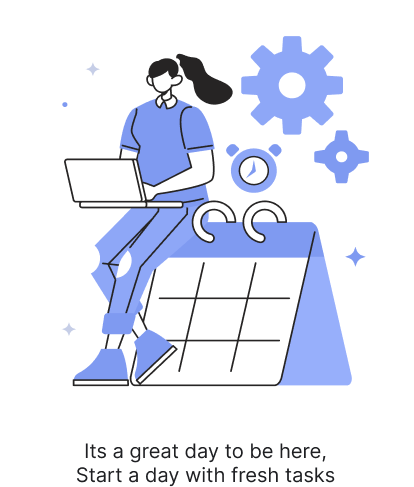
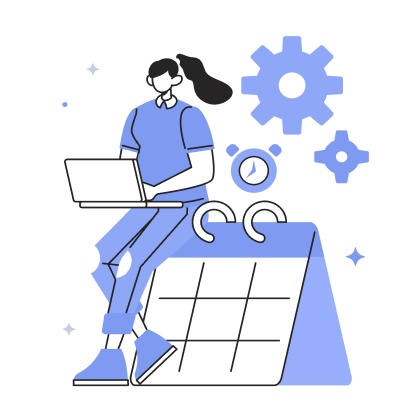
second

diff --git a/src/App.tsx b/src/App.tsx
@@ -1,10 +1,45 @@
-import React, { useState } from "react";
+import React, { useReducer, useState } from "react";
+import { v4 as uuidv4 } from "uuid";
 import { Main } from "./Components/Main";
 import "./Styles/Styles.css";
-import { dataContext } from "./Components/dataContext";
-import { IState } from './Components/interface'
+
+import { dataContext, ACTIONTYPES } from "./Components/dataContext";
+import { IState } from "./Components/interface";
+import { IReducer } from "./Components/interface";
+
+const initialState = [
+  {
+    todo: "value",
+    id: "9b1deb4d-3b7d-4bad-9bdd-2b0d7b3dcb6d",
+    isCompleted: false,
+    isOpen: false,
+    isDelete: false,
+    isTrying: false,
+  },
+];
+
+const reducer = (state: IReducer["redState"], action: ACTIONTYPES) => {
+  switch (action.type) {
+    case "Submit":
+      return [...state, newTodo(action.payload)];
+    default:
+      return state;
+  }
+};
+
+const newTodo = (value: string) => {
+  return {
+    id: uuidv4(),
+    todo: value,
+    isCompleted: false,
+    isOpen: false,
+    isDelete: false,
+    isTrying: false,
+  };
+};
+
 function App() {
-  const [GlobalState, setGlobalState] = useState<IState['states']>({
+  const [GlobalState, setGlobalState] = useState<IState["states"]>({
     startTasks: false,
     addTask: false,
     theme: "light",
@@ -12,9 +47,13 @@ function App() {
     filterTask: false,
   });
 
+  const [state, dispatch] = useReducer(reducer, initialState);
+
   return (
     <>
-      <dataContext.Provider value={{ GlobalState, setGlobalState }}>
+      <dataContext.Provider
+        value={{ GlobalState, setGlobalState, state, dispatch }}
+      >
         <Main />
       </dataContext.Provider>
     </>

diff --git a/src/Components/LowerTab.tsx b/src/Components/LowerTab.tsx
@@ -1,4 +1,4 @@
-import React, { useContext, useEffect, useCallback } from "react";
+import React, { useContext, useEffect, useCallback, MouseEvent } from "react";
 import { Filter } from "./Icons/Filter";
 import { Moon } from "./Icons/Moon";
 import { Sun } from "./Icons/Sun";
@@ -22,21 +22,31 @@ function LowerTab() {
     });
   }, [context]);
 
+  const handleClick = useCallback(
+    (e: MouseEvent<HTMLButtonElement>) => {
+      context?.setGlobalState({
+        ...context.GlobalState,
+        startTasks: true,
+      });
+
+      const tar = e.target as HTMLButtonElement;
+
+      console.log(context?.GlobalState.startTasks);
+
+      context?.GlobalState.startTasks
+        ? (tar.disabled = true)
+        : tar.removeAttribute("disabled");
+    },
+    [context]
+  );
+
   return (
     <>
       <div className="lower--tab">
         <button className="theme--button" onClick={changeTheme}>
           {context?.GlobalState.themeState ? <Moon /> : <Sun />}
         </button>
-        <button
-          className="plus--button"
-          onClick={() => {
-            context?.setGlobalState({
-              ...context.GlobalState,
-              startTasks: true,
-            });
-          }}
-        >
+        <button className="plus--button" onClick={handleClick}>
           <Plus />
         </button>
         <button className="filter--button">

diff --git a/src/Components/dataContext.ts b/src/Components/dataContext.ts
@@ -1,11 +1,19 @@
 import { createContext, Dispatch, SetStateAction } from "react";
 import { IState } from "./interface";
+import { IReducer } from "./interface";
+
+export type ACTIONTYPES = { type: "Submit"; payload: string };
+
 
 interface IContext {
   ctx: {
     GlobalState: IState["states"];
     setGlobalState: Dispatch<SetStateAction<IState["states"]>>;
+    state: IReducer["redState"];
+    dispatch: React.Dispatch<ACTIONTYPES>;
   };
 }
+
+
 
 export const dataContext = createContext<IContext["ctx"] | null>(null);

diff --git a/src/Components/ButtonComp.tsx b/src/Components/ButtonComp.tsx
@@ -1,0 +1,20 @@
+import React from "react";
+import { Delete } from "./Icons/Delete";
+import { Down } from "./Icons/Down";
+
+function ButtonComp() {
+  return (
+    <>
+      <div className="button--wrap">
+        <button id="accord--button">
+          <Down />
+        </button>
+        <button id="delete--button">
+          <Delete />
+        </button>
+      </div>
+    </>
+  );
+}
+
+export{  ButtonComp};

diff --git a/src/Components/MidStatus.tsx b/src/Components/MidStatus.tsx
@@ -1,0 +1,16 @@
+import React from 'react'
+
+function MidStatus() {
+    return (
+        <>
+        <div className='mid--wrapper'>
+            <p>Completed the Task?</p>
+            <button className='finished'>Finished</button>
+
+        </div>
+            
+        </>
+    )
+}
+
+export {MidStatus}

diff --git a/src/Components/MiddleComp.tsx b/src/Components/MiddleComp.tsx
@@ -6,7 +6,7 @@ function MiddleComp() {
     <>
       <div className="middle--comp">
         <ImageComp />
-        {/* <p>Its a great day to be here, Start a day with fresh tasks</p> */}
+        <p>Its a great day to be here, Start a day with fresh tasks</p>
       </div>
     </>
   );

diff --git a/src/Components/interface.ts b/src/Components/interface.ts
@@ -7,3 +7,13 @@ export interface IState {
     filterTask: boolean;
   };
 }
+export interface IReducer {
+  redState: {
+    todo: string;
+    id: string;
+    isCompleted: boolean;
+    isOpen: boolean;
+    isDelete: boolean;
+    isTrying: boolean;
+  }[];
+}

diff --git a/src/Styles/Styles.css b/src/Styles/Styles.css
@@ -256,8 +256,16 @@ nav {
   fill: var(--addIconDisBackground);
 }
 
+.lower--tab #plus {
+  pointer-events: none;
+}
+
 .lower--tab #plus path {
   fill: var(--AddIcon);
+}
+
+.plus--icon {
+  pointer-events: none;
 }
 
 .modal--wrapper {

diff --git a/src/Components/Status.tsx b/src/Components/Status.tsx
@@ -1,0 +1,13 @@
+import React from "react";
+
+function Status() {
+  return (
+    <>
+      <div className="status--wrapper">
+        <p>Recently Added</p>
+      </div>
+    </>
+  );
+}
+
+export { Status };

diff --git a/src/Styles/_main.scss b/src/Styles/_main.scss
@@ -63,8 +63,13 @@ nav {
     }
 
     #plus {
+        pointer-events: none;
         path {
             fill: var(--AddIcon);
         }
     }
+}
+
+.plus--icon{
+    pointer-events: none;
 }
